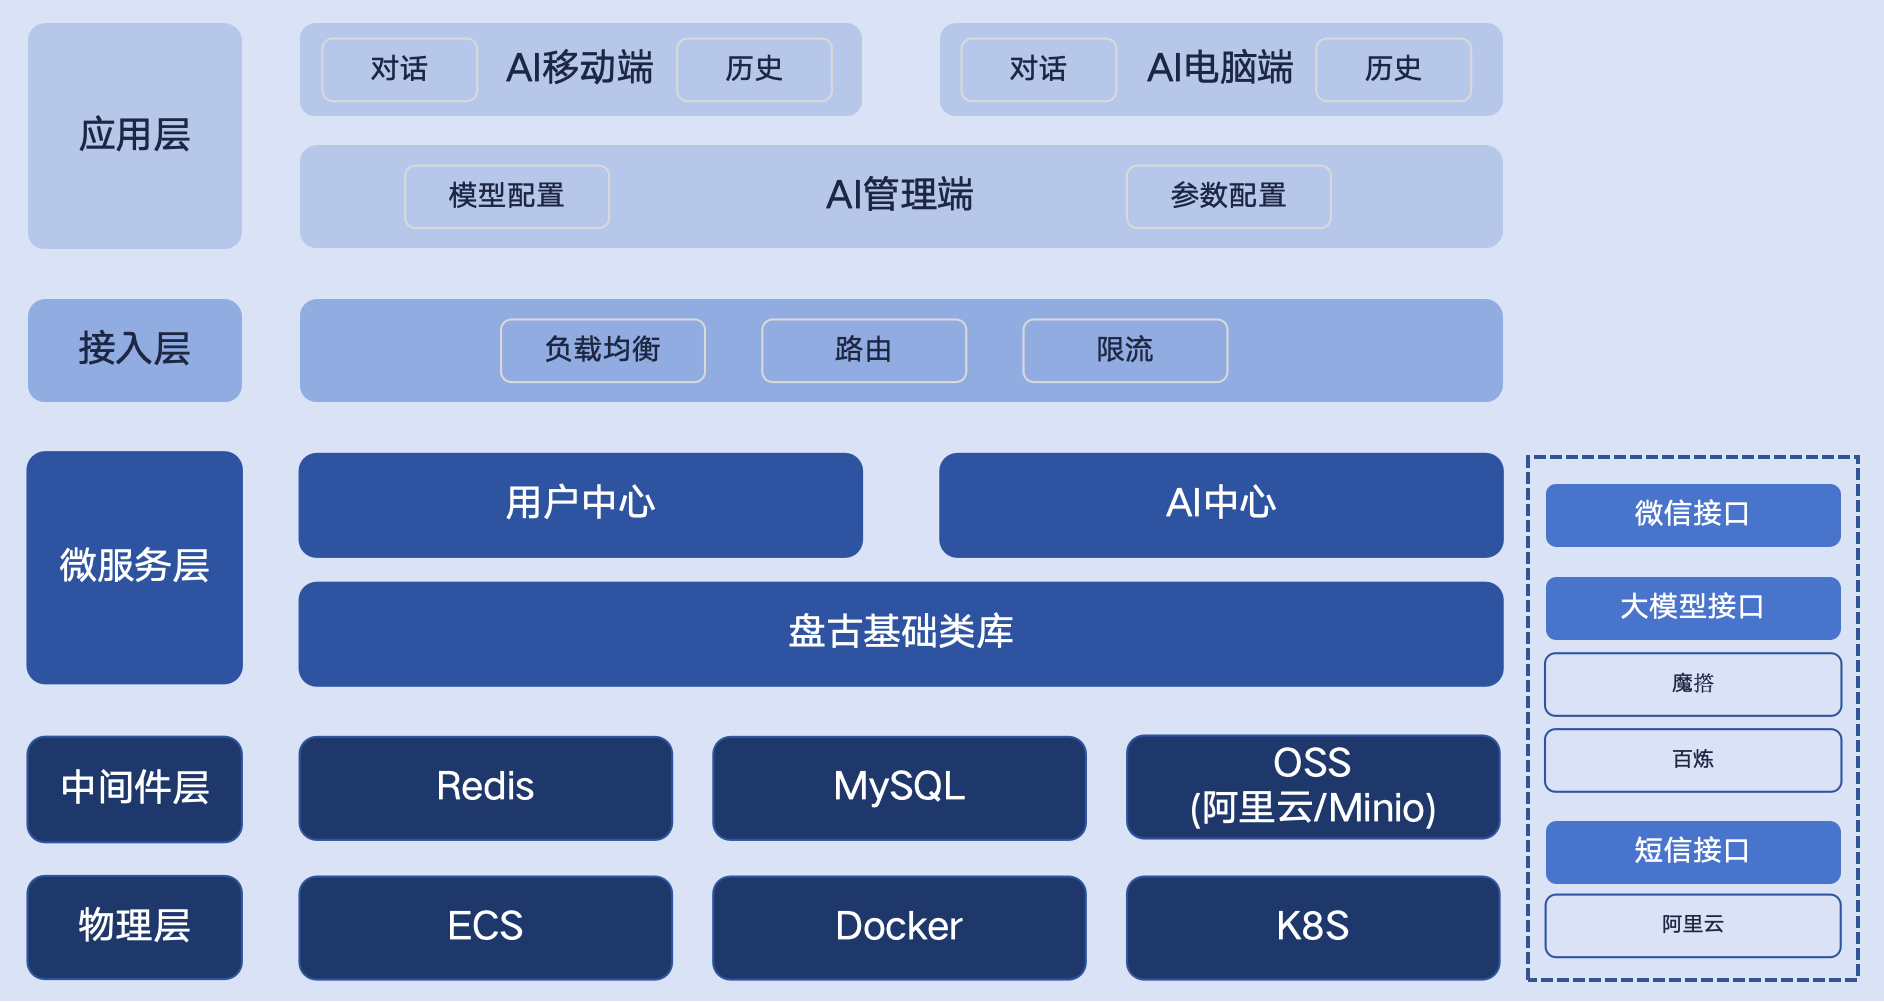
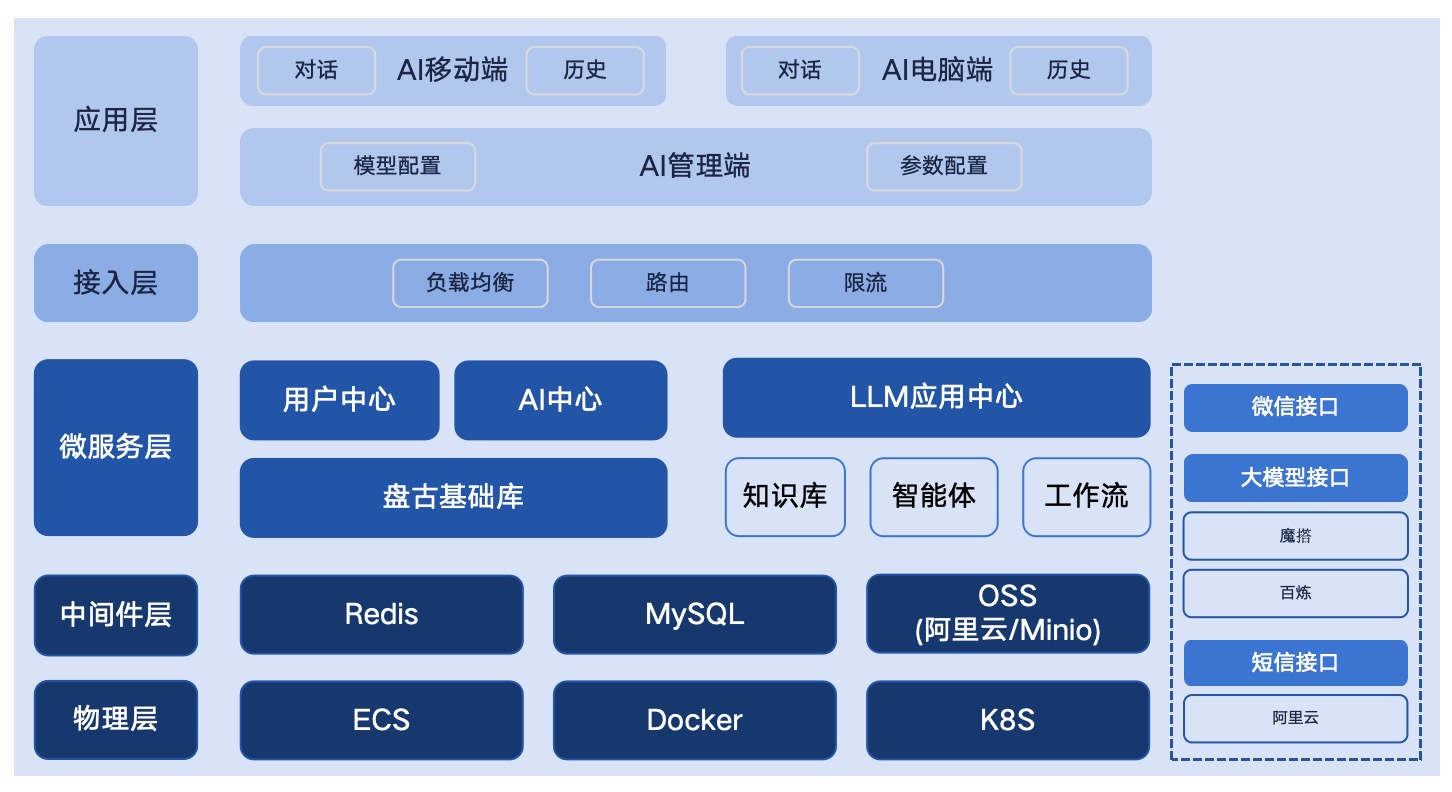
1.3.0

diff --git a/README.md b/README.md
@@ -1,7 +1,7 @@
 <p align="center">
 	<img alt="logo" src="favicon.png">
 </p>
-<h1 align="center" style="margin: 30px 0 30px; font-weight: bold;">仿deepseek 大模型对话 v1.2.0</h1>
+<h1 align="center" style="margin: 30px 0 30px; font-weight: bold;">仿deepseek 大模型对话 v1.3.0</h1>
 <h4 align="center">基于vue3+css 仿deepseek 大模型对话 电脑端+移动端</h4>
 <p align="center">
 	<a href="https://github.com/webusi-dms/ai-chat/blob/master/LICENSE"><img src="https://img.shields.io/github/license/mashape/apistatus.svg"></a>
@@ -10,7 +10,7 @@
 ## 简介
 轻量级微服务架构 仿deepseek大模型对话 电脑端/移动端+管理端。<p/>
 
-核心功能：流式对话/历史对话/内容下载/多平台模型切换(ollama、魔撘社区、阿里云百炼平台)
+核心功能：流式对话/历史对话/内容下载/多平台模型切换(ollama、魔撘社区、阿里云百炼平台)/LLM应用中心
 
 技术栈<br>
 * Vue3、CSS、Element Plus、vant
@@ -24,11 +24,11 @@ https://www.webusi.net
 https://chat.webusi.net
 
 ## 最近更新
-### 1.2.0 2025-12-14
+### 1.3.0 2025-12-23
 #### 移动端/电脑端 同步更新
-1.  功能：流式对话
-2.  功能：复制和下载代码
-3.  功能：内容格式化
+1.  功能：引入LLM应用中心
+2.  功能：支持上传文档
+3.  功能：调整消息内容
 4.  优化：优化界面
 
 ## 微信交流
@@ -68,6 +68,13 @@ https://chat.webusi.net
 </tr>
 
 ## 更新日志
+### 1.2.0 2025-12-14
+#### 移动端/电脑端 同步更新
+1.  功能：流式对话
+2.  功能：复制和下载代码
+3.  功能：内容格式化
+4.  优化：优化界面
+
 ### 1.1.0 2025-12-04
 #### 移动端/电脑端 同步更新
 1.  功能：短信登录/密码登录/微信扫码登录/登录退出
